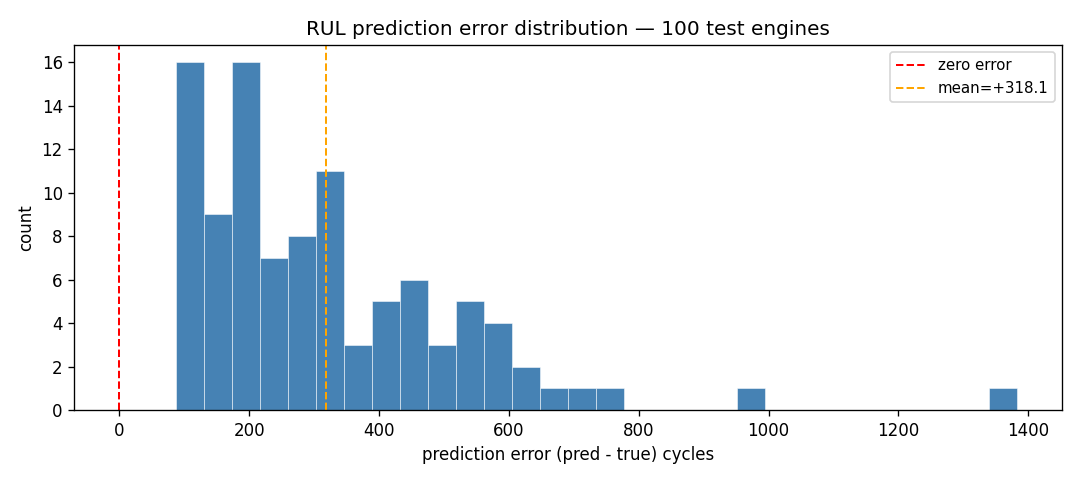
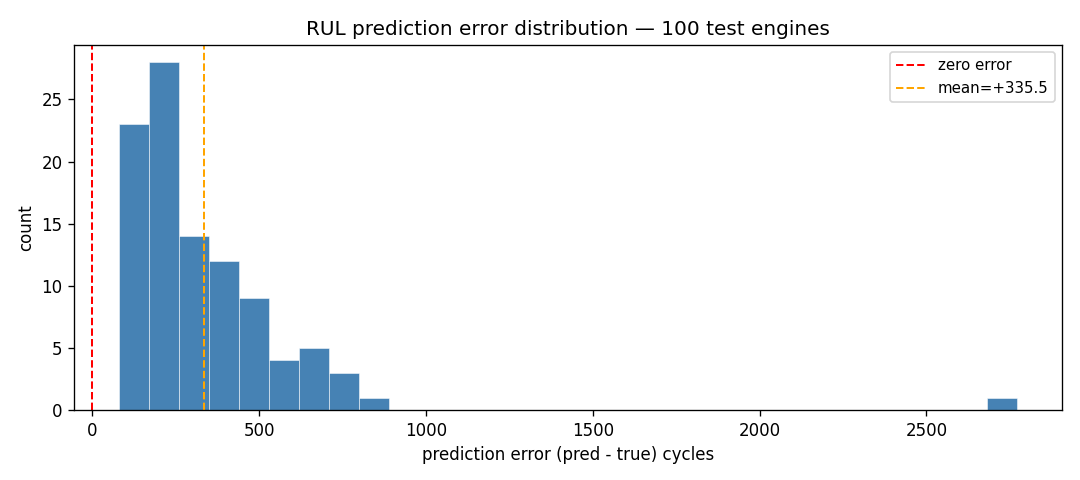
some more runs and slight formatting changes

diff --git a/06_evaluation.py b/06_evaluation.py
@@ -135,6 +135,10 @@ if __name__ == "__main__":
           f"mu_beta={mu_beta:.3f}  sigma_beta={sigma_beta:.3f}")
     print(f"failure threshold (mean s11_norm at failure): {failure_threshold:.4f}")
 
+    print("hyperparameters — tuned on training engine 10, 71.98 % acceptance:")
+    print(f"epsilon={epsilon}  L={L}  n_samples={n_samples}  burn_in={burn_in}")
+    print("CI shown as 5th<=x<=95th percentile  |  target acc 60-80%")
+
     cfg = dict(
         mu_alpha=mu_alpha,     sigma_alpha=sigma_alpha,
         mu_beta=mu_beta,       sigma_beta=sigma_beta,
@@ -160,9 +164,9 @@ if __name__ == "__main__":
     with Pool() as pool:
         for r in pool.imap_unordered(process_engine, engine_args):
             results.append(r)
-            print(f"e{r['engine_id']:3d}  cycles={r['n_cycles']:3d}  acc={r['acc']:.0%}  "
-                  f"pred={r['mean_rul']:6.1f}  90%CI<={r['ci_high']:6.0f}  "
-                  f"true={r['true_rul']:5.0f}  err={r['error']:+.1f}")
+            print(f"E{r['engine_id']:3d}: cycles={r['n_cycles']:3d}  acc={r['acc']:4.0%}  "
+                  f"{r['ci_low']:.0f}<=x<={r['ci_high']:.0f}  "
+                  f"pred={r['mean_rul']:.0f}  true={r['true_rul']:.0f}  err={r['error']:+.0f}")
 
     results.sort(key=lambda x: x["engine_id"])
 
